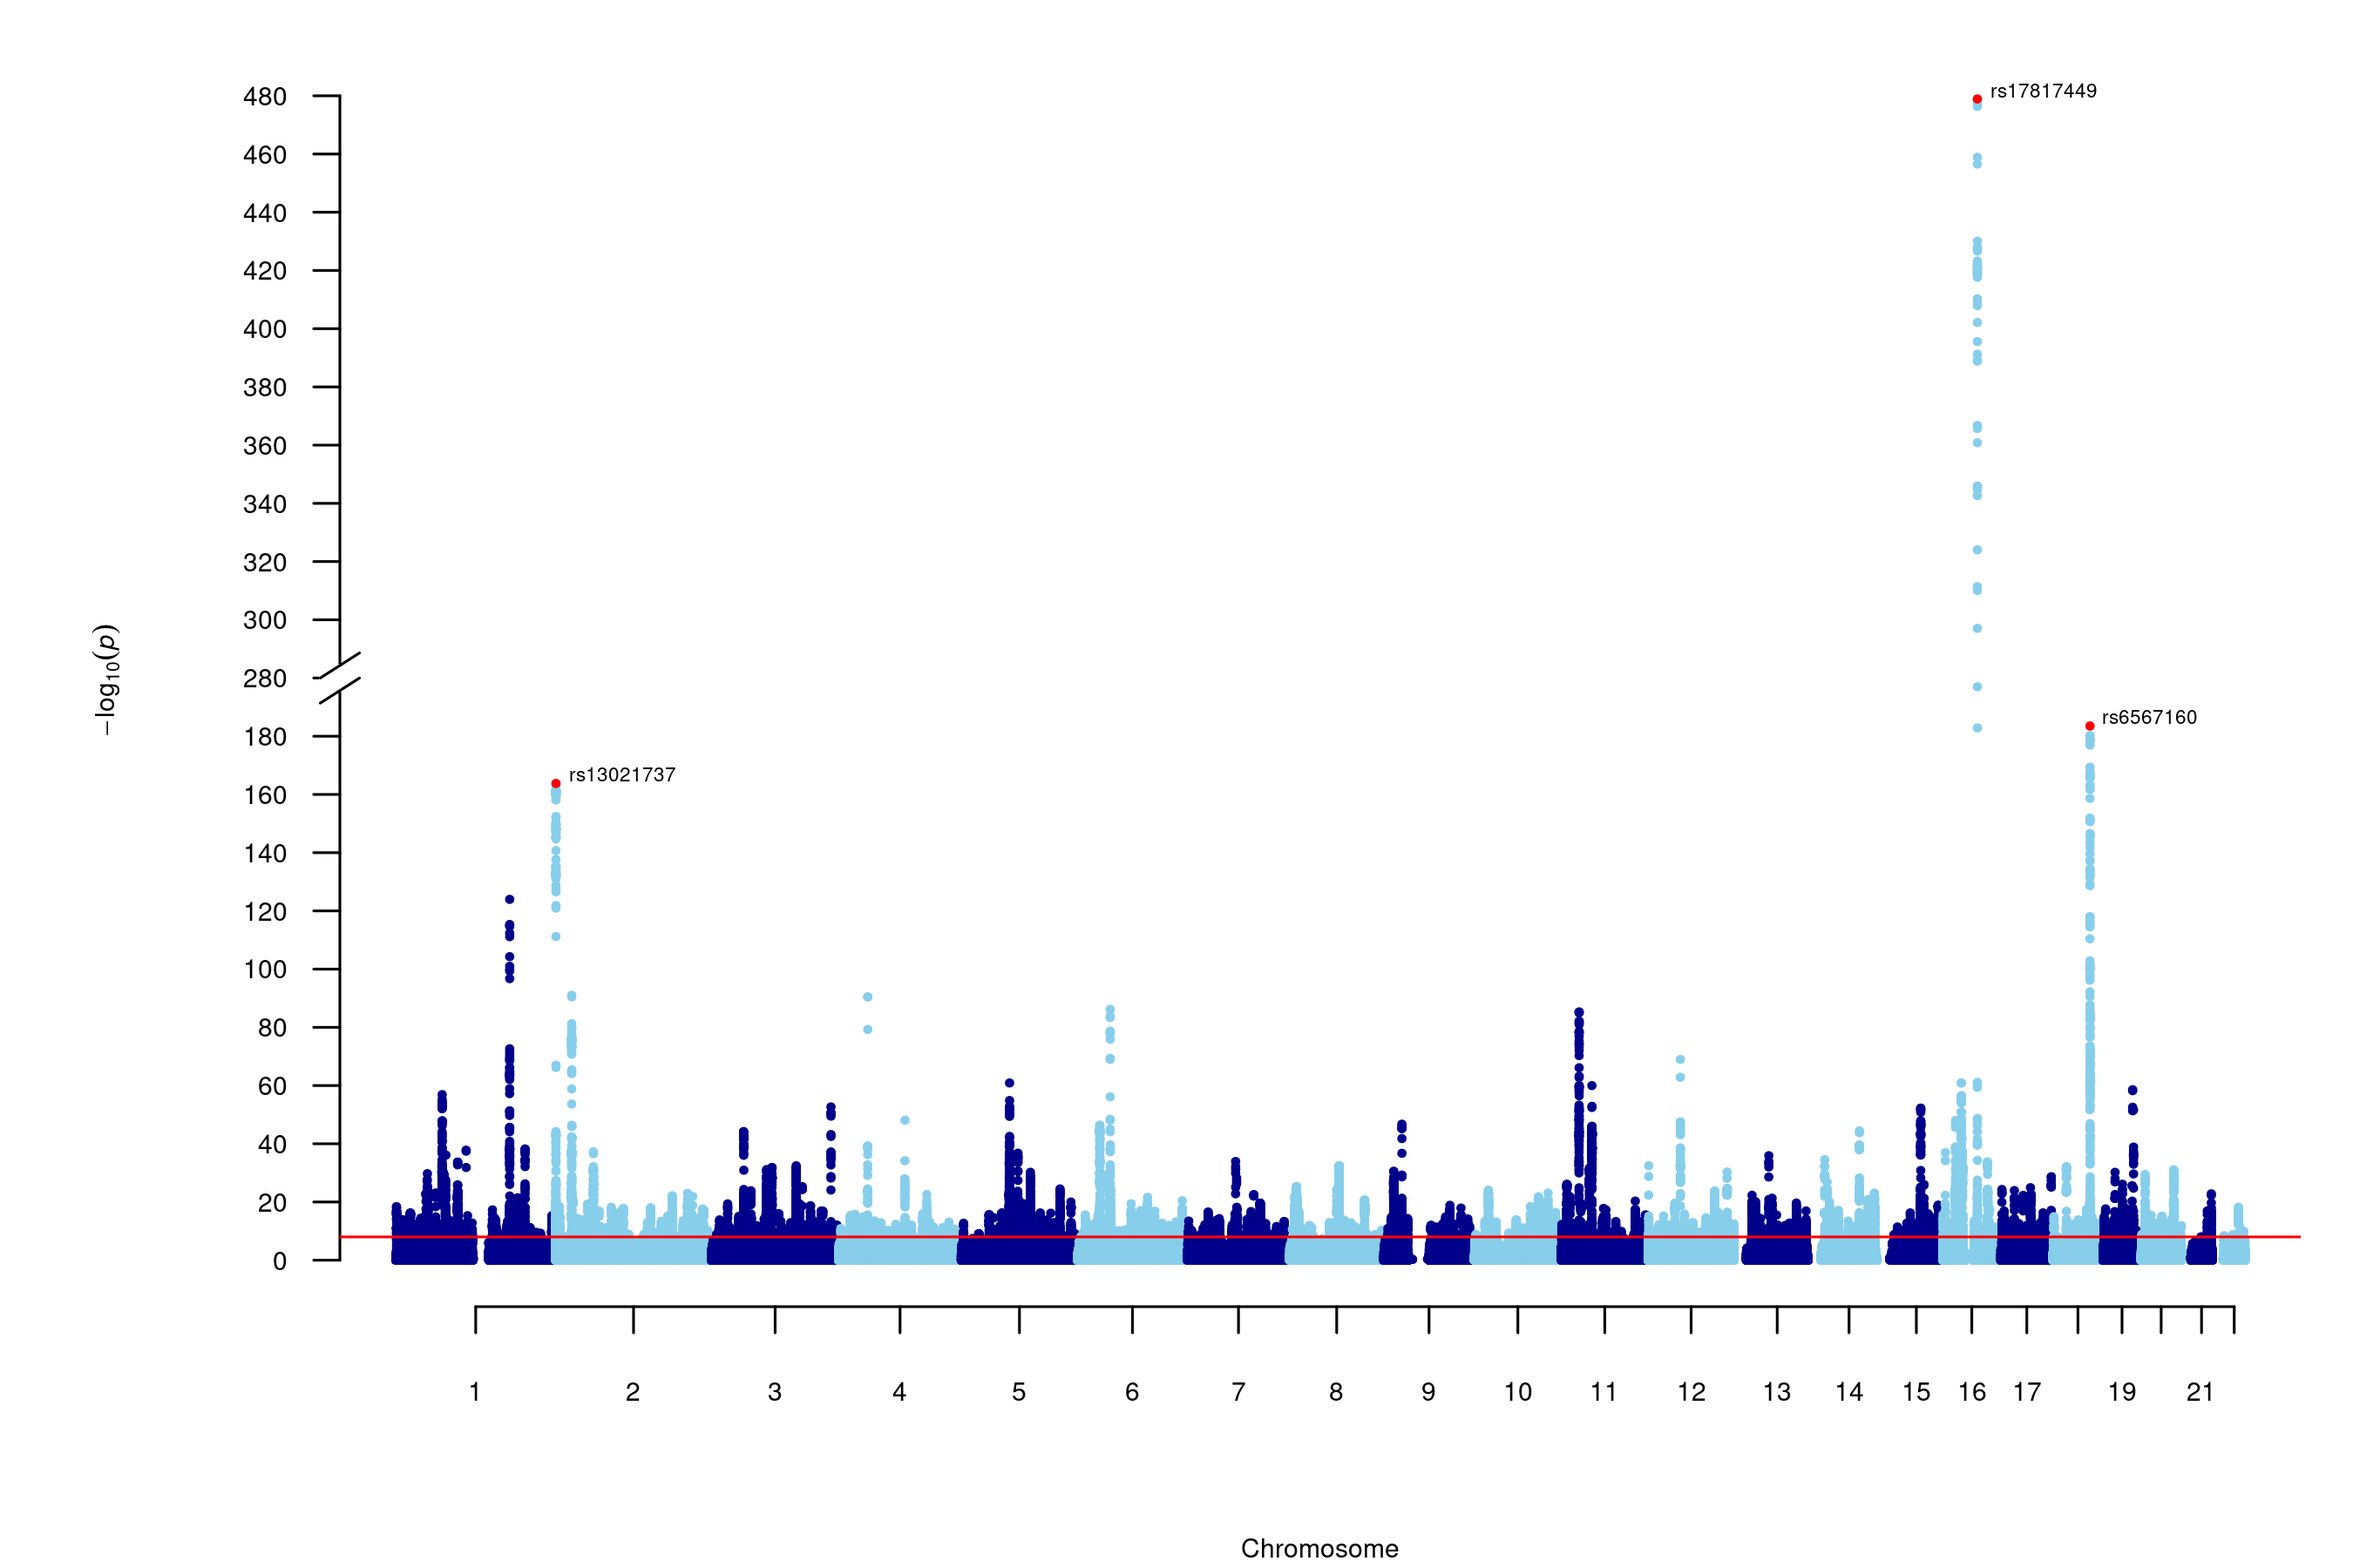
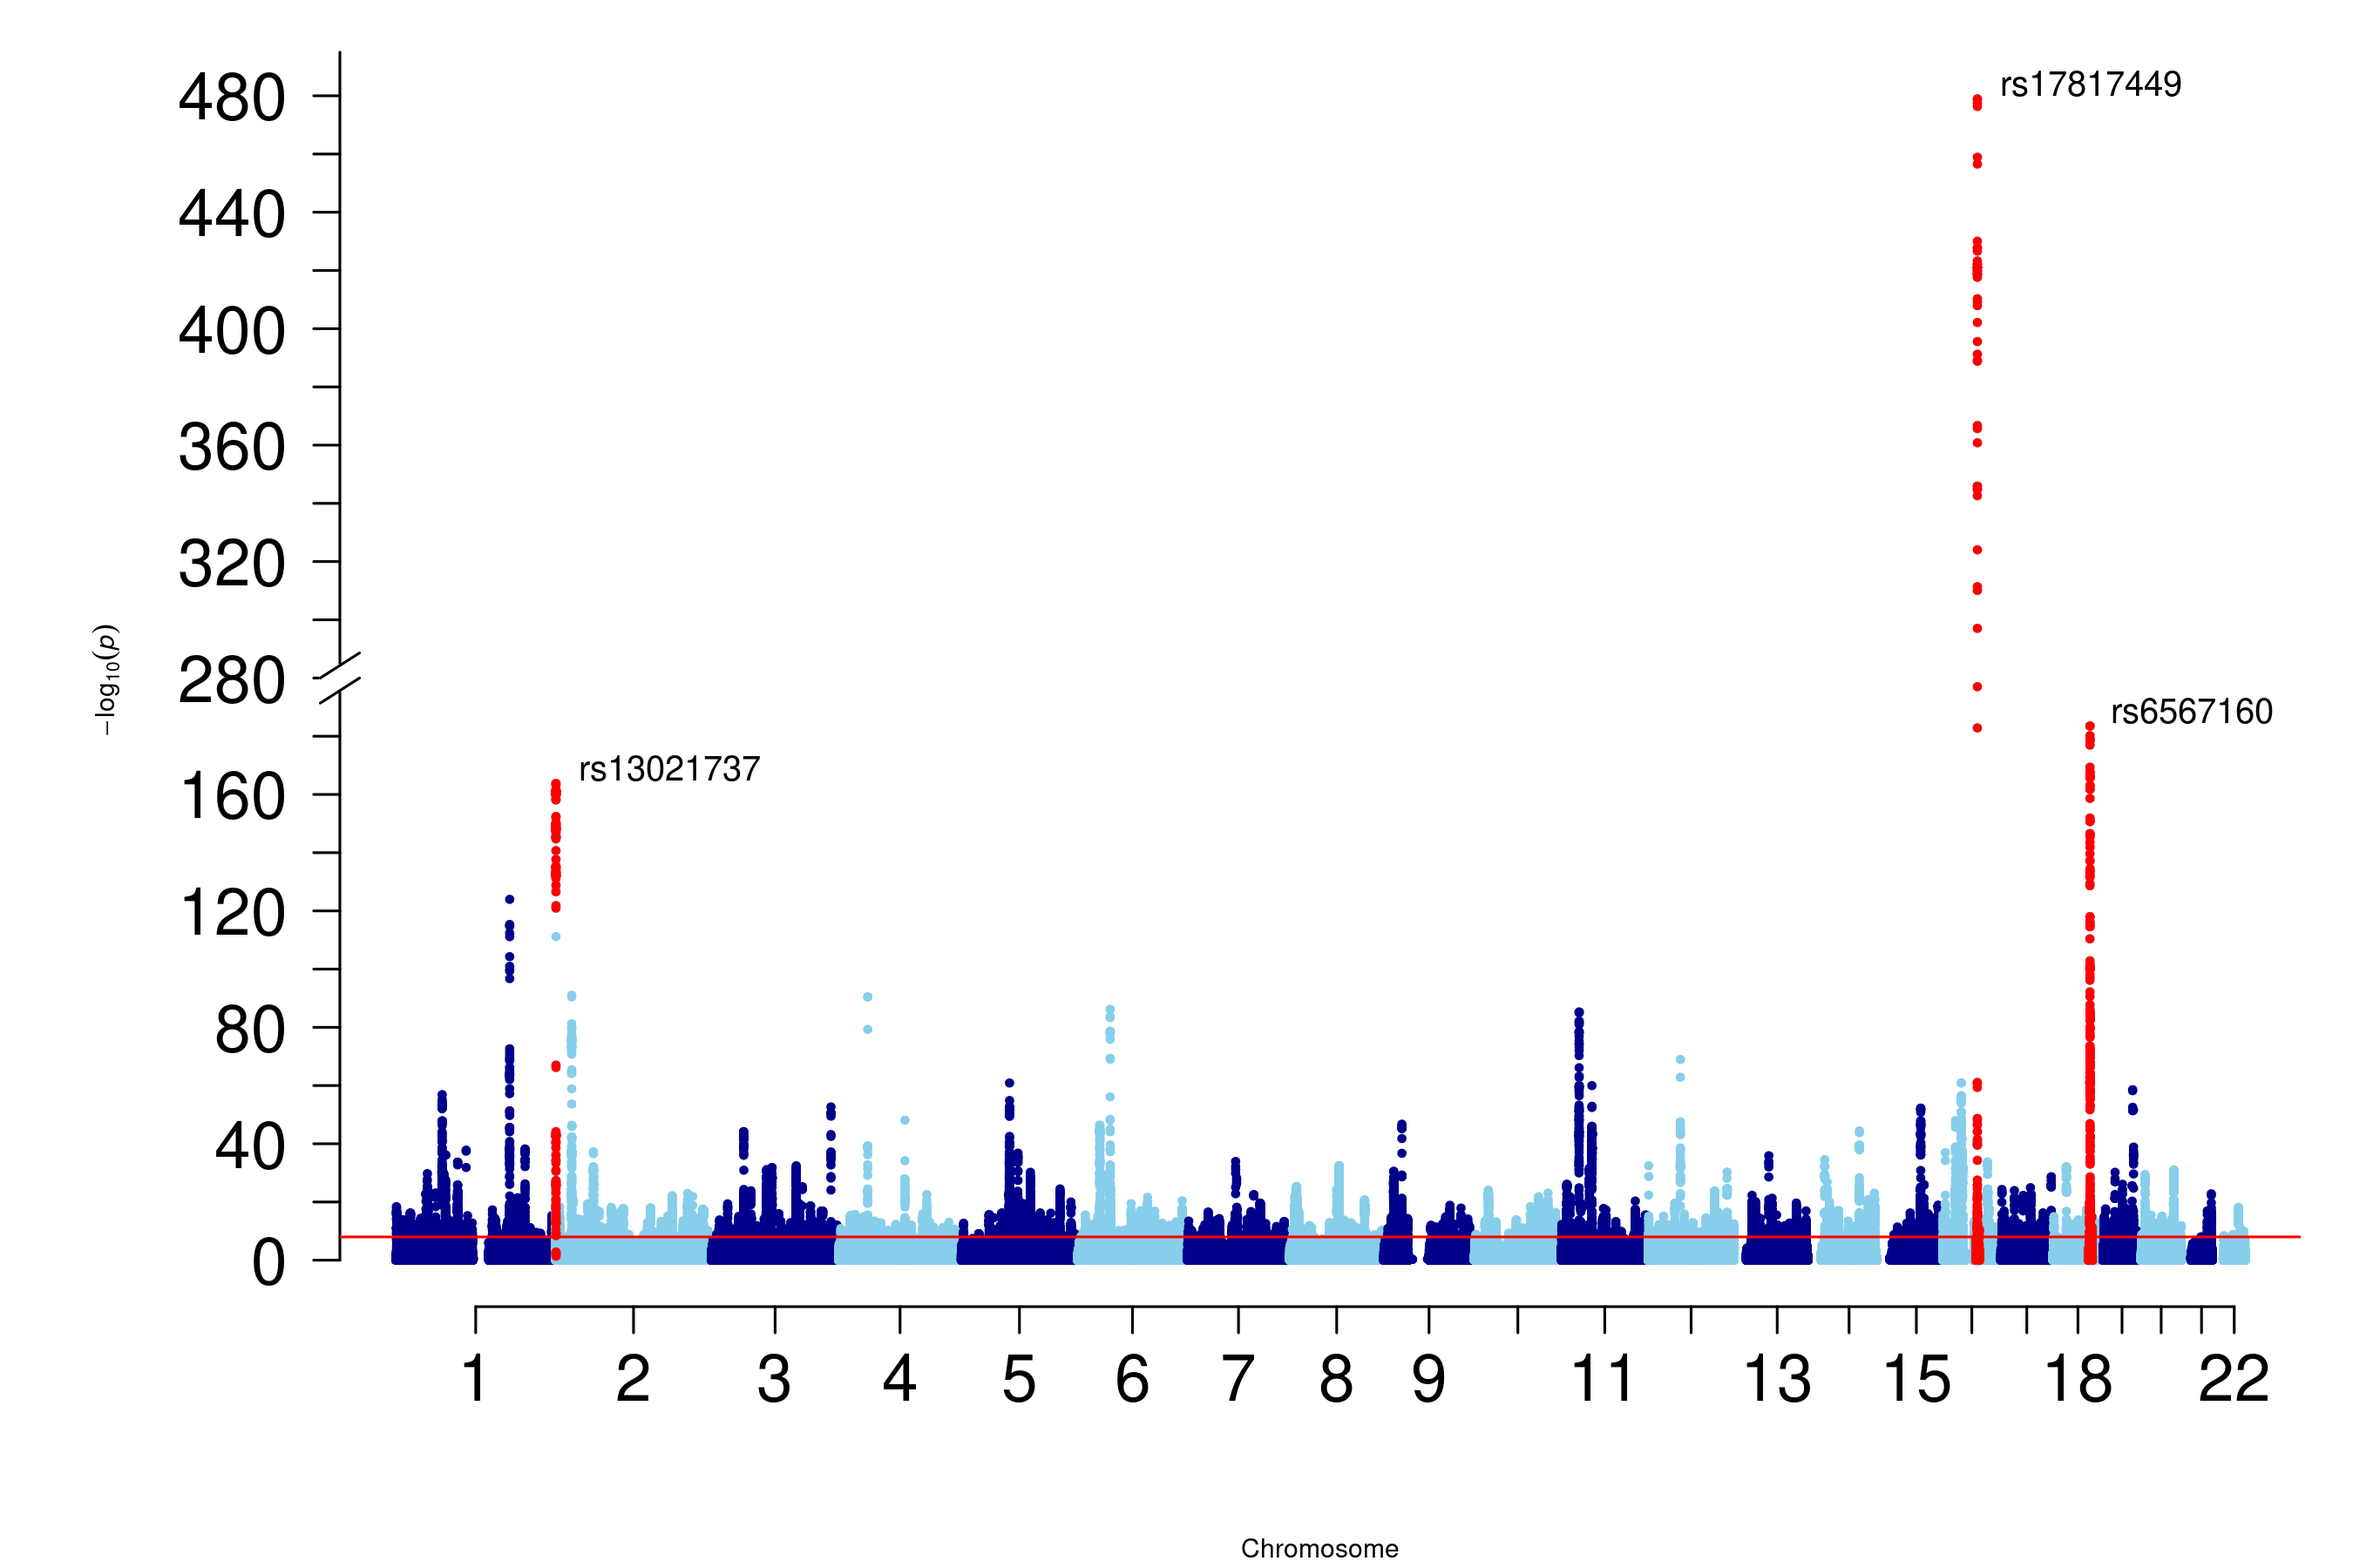
BMI

diff --git a/BMI/README.md b/BMI/README.md
@@ -39,7 +39,7 @@ mhtplot.trunc(BMI, chr="CHR", bp="POS", z="Z", snp="SNP",
               suggestiveline=FALSE, genomewideline=-log10(1e-8),
               cex.mtext=0.6, cex.text=0.7,
               annotatelog10P=156, annotateTop = FALSE, highlight=c("rs13021737","rs17817449","rs6567160"),
-              mtext.line=4, y.brk1=200, y.brk2=280, cex.axis=0.6, cex.y=0.6, cex=0.5,
+              mtext.line=4, y.brk1=200, y.brk2=280, cex.axis=1.5, cex.y=1.5, cex=0.5,
               y.ax.space=20,
               col = c("blue4", "skyblue")
 )
